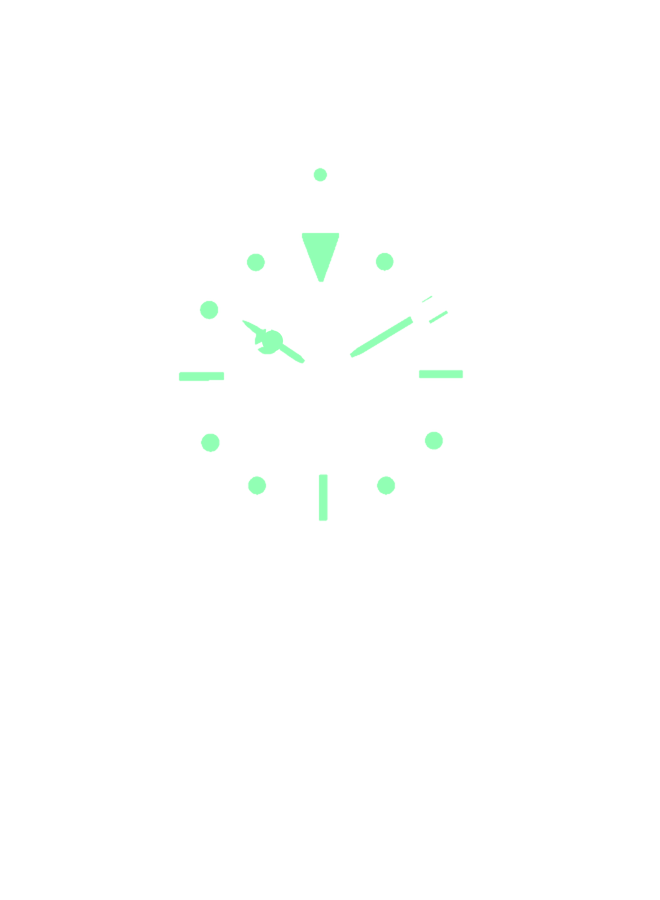
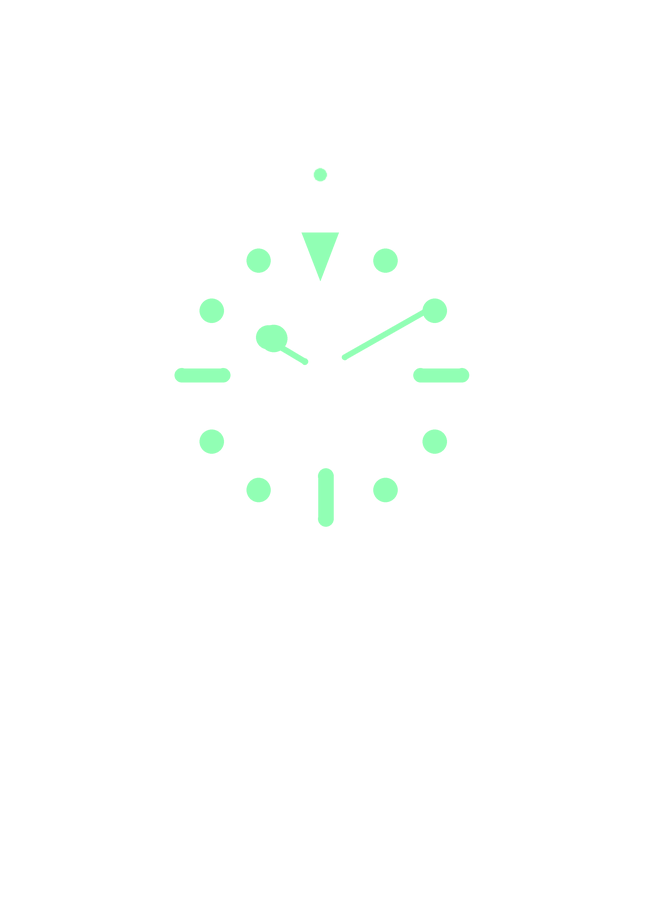
Sea-Dweller 1665: Leuchtmasse neu gesetzt (alle Punkte vollständig, Balken, Dreieck, Mercedes-Zeiger, Minutenzeiger)
Claude-Session: https://claude.ai/code/session_01Wip4uNf6vaKskYPqRYzAdm

diff --git a/index.html b/index.html
@@ -1244,7 +1244,7 @@ const BRAND_STYLE = {
   "Laco": { s: 6, w: 700, ls: 1.6, o: "" }
 };
 
-const IMGV = "2026112693";
+const IMGV = "2026112694";
 // Leuchtstärke einzelner Bilder (Deckkraft der Leuchtebene nachts), z. B. sehr alte Tritium-Leuchtmasse
 const LUME_OP = {}; // bei neuen Bildern hochzählen (Cache)
 function drawWatch(v = {}, e = null) {
@@ -2386,7 +2386,7 @@ function viewCategory(c) {
 }
 
 // Changelog: Entwicklung von WikiTicks seit dem ersten Entwurf (Änderungen und Ideen des Erstellers)
-const CHANGELOG = [["22. November 2026", "Der erste Entwurf", ["Start: Aus einer einzelnen HTML-Datei entsteht die Website WikiTicks, veröffentlicht über GitHub und Hostinger.", "Mehr Uhrenmodelle; das Layout nutzt breite Bildschirme besser aus.", "Höchstens drei Bilder pro Beitrag: eines oben, weitere dort, wo der Text über Varianten spricht."]], ["22. November 2026", "Gezeichnete Uhren im Detail", ["Armbänder wie im Original: Oyster-Band mit schmaleren Außengliedern, eigenes Band für die Speedmaster, breitere Bänder in Gehäusefarbe.", "Bandanstöße (Flanken) je Modell: kantig bei neuen Rolex, rund bei der Speedmaster, Unterschied zwischen alten und neuen Rolex-Gehäusen.", "Kronen weiter ins Gehäuse, Kronenschutz bei neuen und kleiner bei alten Rolex, angewinkelte Drücker bei Chronographen.", "Lünettenzahlen laufen im Kreis mit; Royal Oak mit verschraubter Lünette, Schlitze im Kreis, weichen Kanten und fließendem Band; Sky-Dweller mit großem Ring.", "Explorer II: 1655, 16570 »Polar« und 226570 mit korrekten Indizes, Zeigern, Lünette und Schriftzügen."]], ["22. November 2026", "Wissen und Preise", ["Deutlich tiefere Texte, mehr Expertenwissen, ausgebaute Markenartikel.", "Preisentwicklung erst testweise bei der Explorer II, dann bei allen Modellen: Listen- und Gebrauchtpreise, auch Vintage-Listenpreise, immer in Euro.", "Artikel und Uhr des Tages mit kurzer Zusammenfassung, mobil mit Bild unter der Überschrift und kürzerer Vorschau.", "Wissenswertes mit täglich neuer Auswahl; neue Lexikonartikel und Persönlichkeiten.", "Kachel- oder Listenansicht per Symbol."]], ["23. November 2026", "Prüfen, ordnen, Fotos", ["Doppelt so viele Modelle, Texte auf einheitliches Niveau, Doppelungen und Fehler korrigiert.", "Knopf auf den Markenseiten springt direkt zu den Modellen.", "Zwischenpreise erscheinen beim Überfahren der Preislinie; historische Preislisten (1985, 1990, 2004) eingearbeitet.", "Statt Zeichnungen: echte Uhrenbilder aus dem Ordner assets/watches, nach und nach für fast alle Modelle, mit Korrekturen wie der 16570 »Polar« oder der »Starbucks«.", "Zurück-Navigation landet an derselben Stelle der Seite.", "Artikel des Tages öfter ein Lexikonartikel, Uhr des Tages öfter eine Luxusuhr."]], ["23.–24. November 2026", "Nachtmodus mit Leuchtmasse", ["Idee: Im Nachtmodus werden die Uhren abgedunkelt und leuchten wie im Dunkeln.", "Leuchtmasse für jede Uhr einzeln vermessen: nur Indizes und Leuchtfüllung der Zeiger, eingefasste Indizes, runde Punkte rund, gealterte Vintage-Leuchtmasse schwächer.", "Leichter Glow an der Leuchtmasse; Uhren ohne Leuchtmasse werden sanft von oben angestrahlt.", "Nachtmodus-Knopf als moderne Mondphase, die beim Umschalten einmal herumwandert; weiche Übergänge für Seite, Schrift und Uhren.", "Kleine Uhr im Kopf läuft genau, leuchtet nachts und schlägt groß mit 4 Hz; daneben ein ewiger Kalender im gleichen Stil.", "»Ticks« im Logo leuchtet in der Farbe des gewählten Menüpunkts."]], ["24. November 2026", "Navigation, Favoriten, Lexikon", ["Markenlogos auf den Markenseiten; Bildvergrößerung per Klick bei hoher Auflösung.", "Neue Artikel, etwa über James Bond, Leuchtmasse und Uhrenpreise; Zwischenüberschriften in den Modellartikeln, Bilder unter den passenden Absätzen.", "Mondphasen-Artikel mit Illustration wie im Nachtmodus-Knopf, aktueller Mondphase und Regler zum Einstellen.", "Mobiles Menü: fährt weich auf, läuft beim Scrollen als Leiste mit, Farbwahl und Suche darin.", "Favoriten für alle Beiträge; »heiße« Marken mit Flamme im Menü.", "»Über dieses Bild«: Aufklapper mit genauer Bildbeschreibung, wie eine Datumslupe über dem Text."]], ["24. November 2026", "Artikel zusammenführen und vertiefen", ["Varianten in den Grundartikel: Royal Oak Chronograph und Ewiger Kalender in die Royal Oak, Black Bay 58 und 54 in die Black Bay u. a.", "Lexikon-Knöpfe unter passenden Absätzen statt vieler Links im Text.", "Mehr Geschichten und tiefere Informationen, etwa welches Gold eine Day-Date hat; Komplikationen mit Abschnitt »So funktioniert es« und neuen Schemazeichnungen.", "Infoseite »Über WikiTicks« am Ende der Seite und im Menü."]], ["24. November 2026", "Uhrenvergleich und Datenblätter", ["Seite Uhrenvergleich: bis zu drei Uhren nebeneinander, Ausführung per Dropdown wählbar.", "Eigene Datenblätter für alle Uhren und Referenzen, nur im Vergleich und im Aufklapper der Referenztabelle; »keine Angabe« in Grau statt Strich.", "Referenznummern zu allen Bildern, gezeigt unter dem Bild und im Text; erfundene Modelle entfernt.", "Artikel und Uhr des Tages wechseln um Mitternacht, Wissenswertes alle drei Stunden; Kacheln für Lexikon, Marken, Vergleich und Favoriten."]], ["24. November 2026", "Neue Bilder", ["Reverso halb gewendet, Longines Kalender-Chronograph Ref. 6817 (um 1960, Schätzwert 3.500–5.000 €), Vacheron im Stil der 1950er, neue GMT-Master 1675.", "Artikel »GMT-Master II« wird zu »Rolex GMT-Master«; »Sprite« in Weißgold ergänzt.", "Die Seite folgt dem Dunkelmodus von Smartphone oder PC."]], ["24.–25. November 2026", "Der Vintage-Modus", ["Idee: ein Knopf, der alle Hauptbilder durch die früheste Vintage-Ausführung ersetzt, auch bei originalgetreuen Neuauflagen.", "Vintage-Bilder ergänzt: Submariner 5513, Nautilus 3700/1A, Air-King 5500, »Bubbleback«, Visodate, Datejust 1601 in Creme.", "Look im Stil einer Uhr der 1960er: Sonnenschliff, Kacheln wie Zifferblätter unter Glas, Stabindizes, Tritiumpunkte, Tageskacheln wie altes Zeitungspapier.", "Nachts das Grün der Leuchtmasse für Schrift, Kachelränder und Leuchten, Farbwechsler weiter nutzbar.", "Markenseiten zeigen nur Uhren mit Vintage-Bild; Uhr des Tages nur aus dieser Auswahl.", "Knopf mit Zifferblatt, das beim Umschalten zurückdreht und vom hellblauen modernen Blatt auf das Vintage-Blatt wechselt."]], ["25. November 2026", "Fließende Übergänge", ["Kacheln leuchten beim Überfahren oder Antippen, nachts auch im Heute-Modus.", "Farbwechsel fließend: nachts erlischt die Farbe und leuchtet in der neuen wieder auf.", "Wechsel Heute ⇄ Vintage: die Uhr versinkt in der Dunkelheit und taucht in der anderen Ausführung wieder auf, Leuchtmasse und Kachelleuchten im selben Takt.", "Tag ⇄ Nacht als weiche Überblendung der ganzen Seite, Uhren gleichzeitig mit der Seite dunkel und hell, in beiden Modi gleich lang.", "Viele Feinheiten für das iPhone: kein Verrutschen, kein Aufploppen, kein Kasten um die Uhr.", "Mondschein im Nachtmodus, auf Smartphone und PC gleich.", "Changelog als eigener Artikel, erreichbar über »Über WikiTicks«."]], ["25. November 2026", "Ansichten und Größen", ["Markenseiten mit dritter Ansicht der Modelle: am PC groß untereinander, auf dem Smartphone zwei nebeneinander.", "Leuchtmasse der GMT-Master 1675 und der Submariner 5513 in Farbe und Stärke wie bei der Sea-Dweller 1665.", "Alle Uhren mittig in ihren Kacheln und maßstabsgetreu nach Gehäusedurchmesser, Bezug Submariner mit 41 mm; runde Gehäuse werden an der Lünette vermessen.", "Leuchtmasse überall einheitlich: alle neuen Uhren leuchten gleich hell wie die Submariner, alle Vintage-Uhren 20 % schwächer und im gleichen Grün.", "Vintage-Nachtmodus: Modellkacheln und Bildkacheln in den Beiträgen etwas dunkler und ohne inneren Schein; der äußere Ring leuchtet so hell wie der Rand im Heute-Modus, der innere wie bei den übrigen Kacheln.", "Vintage-Modus: Minuterie unter den Zwischenüberschriften kürzer; sie läuft nicht mehr hinter das Hauptbild und liegt nicht mehr unter dem Rand der Referenztabelle.", "Leuchtmasse kräftiger: Blau etwas blauer, Grün etwas grüner.", "Rolex mit blauer Leuchtmasse: nachts ein ganz leichter Lichtschein, der vom Glasrand nach innen ausläuft. Bei der Yacht-Master sitzt er jetzt am richtigen Glasrand.", "Leuchtmasse aller Uhren einzeln überprüft (über 130 korrigiert): fehlende Indizes und Zeiger ergänzt, fälschlich leuchtende Logos, Datumsfenster, Hilfszifferblätter und Tudor-Lünetten entfernt.", "Vergrößerte Bildansicht nachts zuverlässiger (Uhr verschwand teils, z. B. bei der Nautilus).", "Neue Änderungen werden ab jetzt automatisch hier im Changelog ergänzt."]]];
+const CHANGELOG = [["22. November 2026", "Der erste Entwurf", ["Start: Aus einer einzelnen HTML-Datei entsteht die Website WikiTicks, veröffentlicht über GitHub und Hostinger.", "Mehr Uhrenmodelle; das Layout nutzt breite Bildschirme besser aus.", "Höchstens drei Bilder pro Beitrag: eines oben, weitere dort, wo der Text über Varianten spricht."]], ["22. November 2026", "Gezeichnete Uhren im Detail", ["Armbänder wie im Original: Oyster-Band mit schmaleren Außengliedern, eigenes Band für die Speedmaster, breitere Bänder in Gehäusefarbe.", "Bandanstöße (Flanken) je Modell: kantig bei neuen Rolex, rund bei der Speedmaster, Unterschied zwischen alten und neuen Rolex-Gehäusen.", "Kronen weiter ins Gehäuse, Kronenschutz bei neuen und kleiner bei alten Rolex, angewinkelte Drücker bei Chronographen.", "Lünettenzahlen laufen im Kreis mit; Royal Oak mit verschraubter Lünette, Schlitze im Kreis, weichen Kanten und fließendem Band; Sky-Dweller mit großem Ring.", "Explorer II: 1655, 16570 »Polar« und 226570 mit korrekten Indizes, Zeigern, Lünette und Schriftzügen."]], ["22. November 2026", "Wissen und Preise", ["Deutlich tiefere Texte, mehr Expertenwissen, ausgebaute Markenartikel.", "Preisentwicklung erst testweise bei der Explorer II, dann bei allen Modellen: Listen- und Gebrauchtpreise, auch Vintage-Listenpreise, immer in Euro.", "Artikel und Uhr des Tages mit kurzer Zusammenfassung, mobil mit Bild unter der Überschrift und kürzerer Vorschau.", "Wissenswertes mit täglich neuer Auswahl; neue Lexikonartikel und Persönlichkeiten.", "Kachel- oder Listenansicht per Symbol."]], ["23. November 2026", "Prüfen, ordnen, Fotos", ["Doppelt so viele Modelle, Texte auf einheitliches Niveau, Doppelungen und Fehler korrigiert.", "Knopf auf den Markenseiten springt direkt zu den Modellen.", "Zwischenpreise erscheinen beim Überfahren der Preislinie; historische Preislisten (1985, 1990, 2004) eingearbeitet.", "Statt Zeichnungen: echte Uhrenbilder aus dem Ordner assets/watches, nach und nach für fast alle Modelle, mit Korrekturen wie der 16570 »Polar« oder der »Starbucks«.", "Zurück-Navigation landet an derselben Stelle der Seite.", "Artikel des Tages öfter ein Lexikonartikel, Uhr des Tages öfter eine Luxusuhr."]], ["23.–24. November 2026", "Nachtmodus mit Leuchtmasse", ["Idee: Im Nachtmodus werden die Uhren abgedunkelt und leuchten wie im Dunkeln.", "Leuchtmasse für jede Uhr einzeln vermessen: nur Indizes und Leuchtfüllung der Zeiger, eingefasste Indizes, runde Punkte rund, gealterte Vintage-Leuchtmasse schwächer.", "Leichter Glow an der Leuchtmasse; Uhren ohne Leuchtmasse werden sanft von oben angestrahlt.", "Nachtmodus-Knopf als moderne Mondphase, die beim Umschalten einmal herumwandert; weiche Übergänge für Seite, Schrift und Uhren.", "Kleine Uhr im Kopf läuft genau, leuchtet nachts und schlägt groß mit 4 Hz; daneben ein ewiger Kalender im gleichen Stil.", "»Ticks« im Logo leuchtet in der Farbe des gewählten Menüpunkts."]], ["24. November 2026", "Navigation, Favoriten, Lexikon", ["Markenlogos auf den Markenseiten; Bildvergrößerung per Klick bei hoher Auflösung.", "Neue Artikel, etwa über James Bond, Leuchtmasse und Uhrenpreise; Zwischenüberschriften in den Modellartikeln, Bilder unter den passenden Absätzen.", "Mondphasen-Artikel mit Illustration wie im Nachtmodus-Knopf, aktueller Mondphase und Regler zum Einstellen.", "Mobiles Menü: fährt weich auf, läuft beim Scrollen als Leiste mit, Farbwahl und Suche darin.", "Favoriten für alle Beiträge; »heiße« Marken mit Flamme im Menü.", "»Über dieses Bild«: Aufklapper mit genauer Bildbeschreibung, wie eine Datumslupe über dem Text."]], ["24. November 2026", "Artikel zusammenführen und vertiefen", ["Varianten in den Grundartikel: Royal Oak Chronograph und Ewiger Kalender in die Royal Oak, Black Bay 58 und 54 in die Black Bay u. a.", "Lexikon-Knöpfe unter passenden Absätzen statt vieler Links im Text.", "Mehr Geschichten und tiefere Informationen, etwa welches Gold eine Day-Date hat; Komplikationen mit Abschnitt »So funktioniert es« und neuen Schemazeichnungen.", "Infoseite »Über WikiTicks« am Ende der Seite und im Menü."]], ["24. November 2026", "Uhrenvergleich und Datenblätter", ["Seite Uhrenvergleich: bis zu drei Uhren nebeneinander, Ausführung per Dropdown wählbar.", "Eigene Datenblätter für alle Uhren und Referenzen, nur im Vergleich und im Aufklapper der Referenztabelle; »keine Angabe« in Grau statt Strich.", "Referenznummern zu allen Bildern, gezeigt unter dem Bild und im Text; erfundene Modelle entfernt.", "Artikel und Uhr des Tages wechseln um Mitternacht, Wissenswertes alle drei Stunden; Kacheln für Lexikon, Marken, Vergleich und Favoriten."]], ["24. November 2026", "Neue Bilder", ["Reverso halb gewendet, Longines Kalender-Chronograph Ref. 6817 (um 1960, Schätzwert 3.500–5.000 €), Vacheron im Stil der 1950er, neue GMT-Master 1675.", "Artikel »GMT-Master II« wird zu »Rolex GMT-Master«; »Sprite« in Weißgold ergänzt.", "Die Seite folgt dem Dunkelmodus von Smartphone oder PC."]], ["24.–25. November 2026", "Der Vintage-Modus", ["Idee: ein Knopf, der alle Hauptbilder durch die früheste Vintage-Ausführung ersetzt, auch bei originalgetreuen Neuauflagen.", "Vintage-Bilder ergänzt: Submariner 5513, Nautilus 3700/1A, Air-King 5500, »Bubbleback«, Visodate, Datejust 1601 in Creme.", "Look im Stil einer Uhr der 1960er: Sonnenschliff, Kacheln wie Zifferblätter unter Glas, Stabindizes, Tritiumpunkte, Tageskacheln wie altes Zeitungspapier.", "Nachts das Grün der Leuchtmasse für Schrift, Kachelränder und Leuchten, Farbwechsler weiter nutzbar.", "Markenseiten zeigen nur Uhren mit Vintage-Bild; Uhr des Tages nur aus dieser Auswahl.", "Knopf mit Zifferblatt, das beim Umschalten zurückdreht und vom hellblauen modernen Blatt auf das Vintage-Blatt wechselt."]], ["25. November 2026", "Fließende Übergänge", ["Kacheln leuchten beim Überfahren oder Antippen, nachts auch im Heute-Modus.", "Farbwechsel fließend: nachts erlischt die Farbe und leuchtet in der neuen wieder auf.", "Wechsel Heute ⇄ Vintage: die Uhr versinkt in der Dunkelheit und taucht in der anderen Ausführung wieder auf, Leuchtmasse und Kachelleuchten im selben Takt.", "Tag ⇄ Nacht als weiche Überblendung der ganzen Seite, Uhren gleichzeitig mit der Seite dunkel und hell, in beiden Modi gleich lang.", "Viele Feinheiten für das iPhone: kein Verrutschen, kein Aufploppen, kein Kasten um die Uhr.", "Mondschein im Nachtmodus, auf Smartphone und PC gleich.", "Changelog als eigener Artikel, erreichbar über »Über WikiTicks«."]], ["25. November 2026", "Ansichten und Größen", ["Markenseiten mit dritter Ansicht der Modelle: am PC groß untereinander, auf dem Smartphone zwei nebeneinander.", "Leuchtmasse der GMT-Master 1675 und der Submariner 5513 in Farbe und Stärke wie bei der Sea-Dweller 1665.", "Alle Uhren mittig in ihren Kacheln und maßstabsgetreu nach Gehäusedurchmesser, Bezug Submariner mit 41 mm; runde Gehäuse werden an der Lünette vermessen.", "Leuchtmasse überall einheitlich: alle neuen Uhren leuchten gleich hell wie die Submariner, alle Vintage-Uhren 20 % schwächer und im gleichen Grün.", "Vintage-Nachtmodus: Modellkacheln und Bildkacheln in den Beiträgen etwas dunkler und ohne inneren Schein; der äußere Ring leuchtet so hell wie der Rand im Heute-Modus, der innere wie bei den übrigen Kacheln.", "Vintage-Modus: Minuterie unter den Zwischenüberschriften kürzer; sie läuft nicht mehr hinter das Hauptbild und liegt nicht mehr unter dem Rand der Referenztabelle.", "Leuchtmasse kräftiger: Blau etwas blauer, Grün etwas grüner.", "Rolex mit blauer Leuchtmasse: nachts ein ganz leichter Lichtschein, der vom Glasrand nach innen ausläuft. Bei der Yacht-Master sitzt er jetzt am richtigen Glasrand.", "Leuchtmasse aller Uhren einzeln überprüft (über 130 korrigiert): fehlende Indizes und Zeiger ergänzt, fälschlich leuchtende Logos, Datumsfenster, Hilfszifferblätter und Tudor-Lünetten entfernt.", "Vergrößerte Bildansicht nachts zuverlässiger (Uhr verschwand teils, z. B. bei der Nautilus).", "Sea-Dweller 1665: Leuchtmasse neu gesetzt – alle Punkte vollständig, Balken, Dreieck und Zeiger.", "Neue Änderungen werden ab jetzt automatisch hier im Changelog ergänzt."]]];
 function viewChangelog() {
   return crumbs([["Startseite", ""], ["Über WikiTicks", "info"], ["Changelog"]]) + `
     <article class="infopage changelog">
